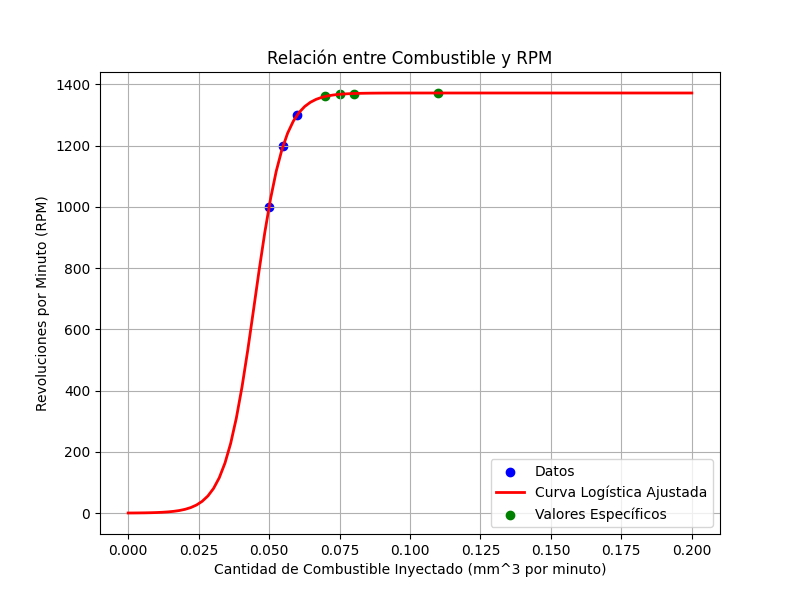
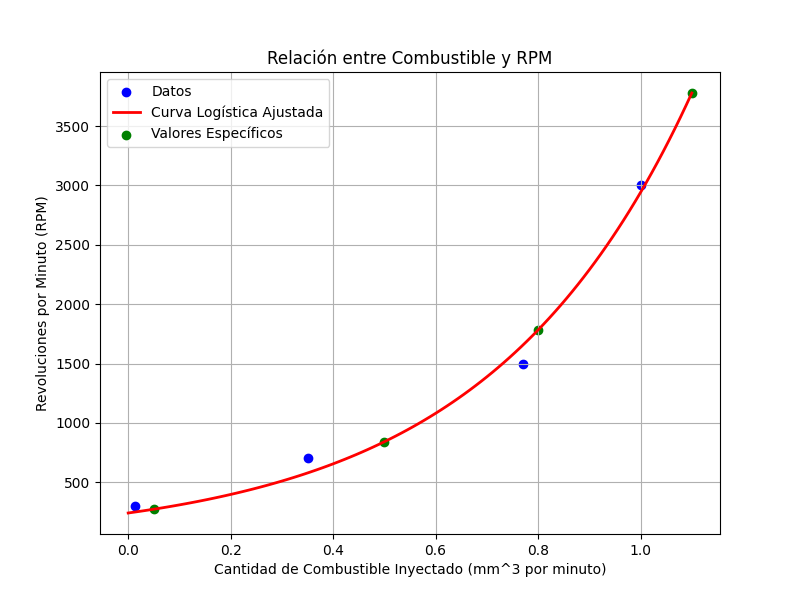
Mejoro escala en grafico

diff --git a/ejercicio/views.py b/ejercicio/views.py
@@ -18,7 +18,7 @@ def get_resolucion(request):
     rpm = [1200, 3500, 4400, 5000]
 
     # Ajuste de la curva logística
-    params, _ = curve_fit(funcion_logistica, combustible, rpm, p0=[8000, 0, np.mean(combustible)])
+    params, _ = curve_fit(funcion_logistica, combustible, rpm, p0=[8000, 0, np.mean(combustible)], maxfev=10000)
 
     # Parámetros del ajuste
     L, k, x0 = params
@@ -103,7 +103,7 @@ def resolucion_parametrizable(request):
             valores_combustible_b = [float(i) for i in lista_combustible_b]
 
             # Ajuste de la curva logística
-            params, _ = curve_fit(funcion_logistica, valores_combustible, valores_rpm, p0=valores_p0)
+            params, _ = curve_fit(funcion_logistica, valores_combustible, valores_rpm, p0=valores_p0, maxfev=10000)
 
             # Parámetros del ajuste
             L, k, x0 = params
@@ -118,7 +118,11 @@ def resolucion_parametrizable(request):
             # formateo valores_especificos a 4 decimales
             rpm_valores_especificos_formateados = [format(i, '.4f') for i in rpm_valores_especificos]
 
-            combustible_grafica = np.linspace(0, 0.2, 100)  # Valores de combustible para la
+            # Junto los 2 arrays de combustibles para graficar
+            maximo_grafica = max(valores_combustible + valores_combustible_b)
+            print(maximo_grafica)
+
+            combustible_grafica = np.linspace(0, maximo_grafica, 100)  # Valores de combustible para la
             # gráfica
             rpm_grafica = funcion_logistica(combustible_grafica, L, k, x0)
 
